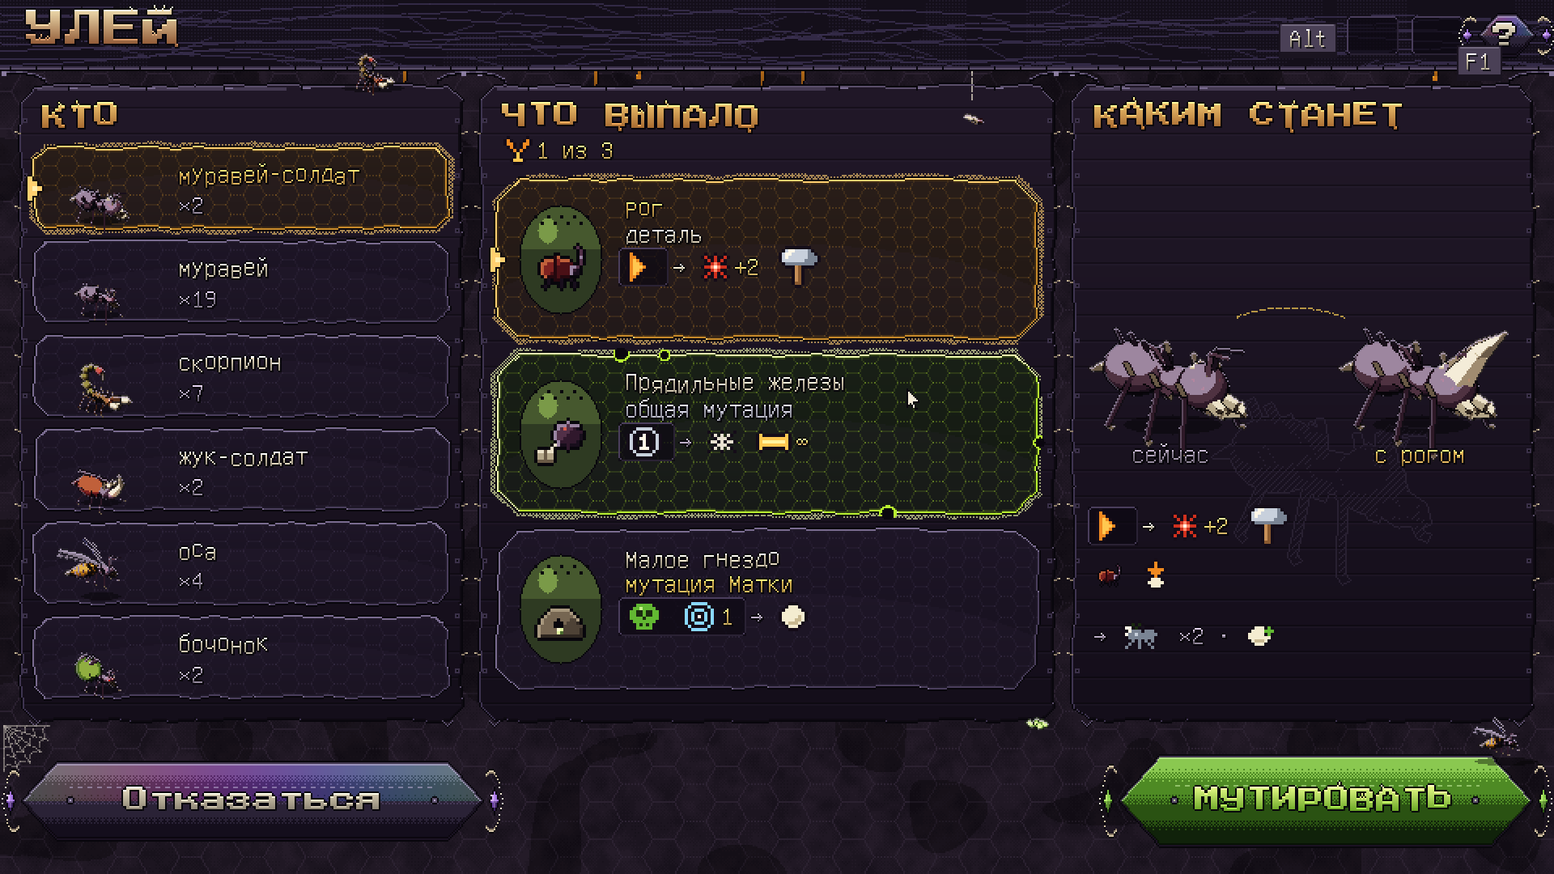
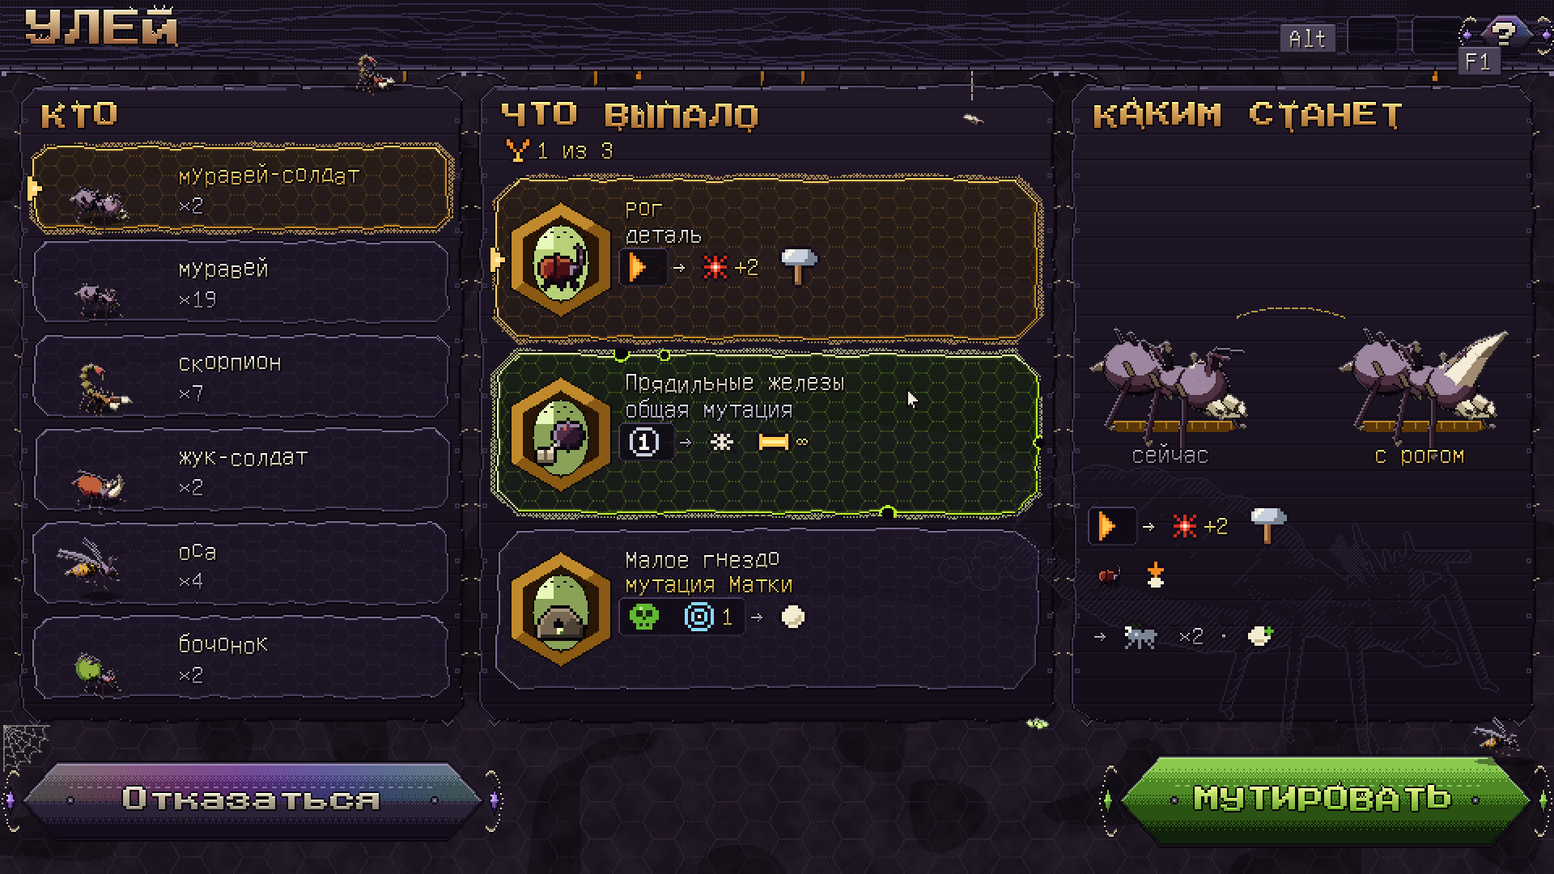
Рой: улей и эволюция у каждого лидера
Свои формы в рое, мутация из пула лидера среди находок, находки выпадают
из вместилища лидера (яйцо в соте, пузырь мысли, пасть, дождевик), особи
на его подстилке, лидер на гравюре, метки пси и чужих черт на формах.

Claude-Session: https://claude.ai/code/session_01Bh6a99SKMjjKSinDnrtssC

diff --git a/tools/sprites/swarm_hud.py b/tools/sprites/swarm_hud.py
@@ -396,8 +396,144 @@ def heading(sc, text, x, y, col=(240, 196, 110), seed=0):
 
 
 # ---------------------------------------------------------------- the camp: the swarm picks a mutation itself
-def camp(variant=None):
+CAMP_BY = {   # the camp by leader: who is in the swarm (traits, soldier, name, count[, chimera]), the leader's offer
+    "Матка": (None, ("m_nest", "Малое гнездо", "мутация Матки", "nest")),
+    "Разум улья": ([((), True, "муравей-солдат", 2), ((), False, "муравей", 12), (("firefly",), False, "светлячок", 3),
+                    (("scythes",), False, "богомол", 2), (("wings",), False, "оса", 2)],
+                   ("m_psi_gland", "Пси-железа", "мутация Разума", "psi_gland")),
+    "Пожиратель": ([((), True, "муравей-солдат", 3), ((), False, "муравей", 17), (("jumper",), False, "кузнечик", 3),
+                    (("horn",), True, "жук-солдат", 1), (("stinger",), False, "скорпион", 2)],
+                   ("m_table", "За столом", "мутация Пожирателя", "table")),
+    "Чума": ([((), False, "муравей", 18), (("stinger",), False, "скорпион", 3), (("acid",), False, "бочонок", 3),
+              (("acid",), False, "бочонок с рукой", 1, "hand"), (("wings",), False, "оса с червём", 1, "worm")],
+             ("m_parasitoid", "Паразитоид", "мутация Чумы", "parasitoid")),
+}
+EVO_BY = {   # the evolution by leader: the forms in the swarm (form, name, count, evolutions taken[, chimera, mark]),
+             # which is open, the biomass, a line by the purse
+    "Матка": (None, None, 39, None),
+    "Разум улья": ([(None, "муравей", 12, ("phalanx",), None, "m_psi_gland"), ("firefly", "светлячок", 3, ()),
+                    ("scythes", "богомол", 2, ("saws",), None, "m_psi_dread"), ("wings", "оса", 2, ("syringe",))],
+                   1, 39, None),
+    "Пожиратель": ([(None, "муравей", 17, ("formic",)), ("jumper", "кузнечик", 3, ()), ("horn", "жук", 1, ("forked",)),
+                    ("stinger", "скорпион", 2, ("vise",))], 1, 62, "из пасти: +12"),
+    "Чума": ([(None, "муравей", 18, ()), ("acid", "бочонок", 4, ("scent",), "hand", "hand"),
+              ("wings", "оса", 2, ("tough",), "worm", "worm"), ("firefly", "светлячок", 1, ("hood",)),
+              ("stinger", "скорпион", 3, ())], 1, 39, None),
+}
+
+
+def vessel(sc, name, ex, ey, hot=False):
+    """What an offer in the camp hatched from, each leader's own: the Queen's egg in its wax cell, the Mind's thought
+    bubble, the Devourer's maw, the Plague's torn puffball. About 56×70, centred on (ex, ey)."""
+    X, Y = sc.xx - ex, sc.yy - ey
+    if name == "Матка":
+        hx = lambda r: hexmask(sc, ex, ey, r)
+        sc.rgb[hx(36)] = UI.OUTL
+        ring = hx(35) & ~hx(27)
+        sc.rgb[ring] = hexc("#8a5a14")
+        sc.rgb[ring & (X + Y * 1.2 < -6)] = hexc("#c08a2c")
+        sc.rgb[hx(27)] = hexc("#2a1606")
+        egg = (X / 18.0) ** 2 + ((Y - 2) / 24.0) ** 2 <= 1
+        sc.rgb[egg] = hexc("#b8d07a" if hot else "#8aa258")
+        sc.rgb[egg & (X < -4) & (Y < -6)] = hexc("#e8f8b8")
+        eo, _, _ = UI.edges(egg)
+        sc.rgb[eo] = UI.OUTL
+        for t in range(8):                                                # the crack it came out of
+            sc.rgb[int(ey - 16 + (2 if t % 2 else -1)), int(ex - 14 + t * 4):int(ex - 12 + t * 4)] = UI.OUTL
+    elif name == "Разум улья":
+        import swarm_abilities as SA
+        d = np.hypot(X, Y)
+        if hot:
+            sc.glow(ex, ey, 44, hexc("#b070ff"), 0.3)
+        inner = d <= 31
+        t = np.clip(d / 32.0, 0, 1)[..., None]
+        sc.rgb[inner] = (hexc("#3a1866") * (1 - t) + hexc("#0e0618") * t)[inner]
+        SA.ring(sc, ex, ey + 8, 20, 9, SA.PHERO, 0.4)
+        sc.rgb[(d > 31) & (d <= 33)] = hexc("#8a5ad0")
+        sc.rgb[(d > 32) & (d <= 33)] = hexc("#d0b0ff")
+        sc.rgb[(d > 26) & (d <= 28) & (X < -8) & (Y < -8)] = hexc("#e8d8ff")
+    elif name == "Пожиратель":
+        d = np.hypot(X, Y / 1.08)
+        a = np.arctan2(Y, X)
+        if hot:
+            sc.glow(ex, ey, 44, hexc("#ff4a30"), 0.25)
+        sc.rgb[d <= 35 + np.sin(a * 7)] = UI.OUTL
+        flesh = d <= 33 + np.sin(a * 7)
+        sc.rgb[flesh] = hexc("#7a1a14")
+        sc.rgb[flesh & (X + Y < -10)] = hexc("#b03a2a")
+        inner = d <= 25
+        sc.rgb[inner] = hexc("#1a0404")
+        for j in range(12):                                               # the teeth
+            a0 = j * 2 * np.pi / 12 + 0.2
+            for k in range(7):
+                q = k / 6
+                r = 27 - q * 7
+                w = 2.5 * (1 - q)
+                for e in np.linspace(-w, w, 4):
+                    xx = int(ex + np.cos(a0) * r - np.sin(a0) * e)
+                    yy = int(ey + (np.sin(a0) * r + np.cos(a0) * e) * 1.08)
+                    sc.rgb[yy, xx] = hexc("#ece2c8") if e < 0 else hexc("#b8a888")
+    else:
+        if hot:
+            sc.glow(ex, ey, 44, hexc("#9ae030"), 0.25)
+        outer = (X / 30.0) ** 2 + (Y / 36.0) ** 2 <= 1
+        sc.rgb[outer] = UI.OUTL
+        sac = (X / 28.0) ** 2 + (Y / 34.0) ** 2 <= 1
+        sc.rgb[sac] = hexc("#8e8462")
+        sc.rgb[sac & (X + Y < -8)] = hexc("#bcb28c")
+        sc.rgb[sac & (X + Y > 16)] = hexc("#5e563e")
+        a = np.arctan2(Y, X)
+        tri = np.abs(((a * 9 / (2 * np.pi)) % 1.0) - 0.5) * 2
+        hole = (X / 22.0) ** 2 + ((Y - 4) / 26.0) ** 2 <= (1 + 0.16 * tri) ** 2
+        sc.rgb[hole & sac] = UI.OUTL
+        inner = (X / 20.0) ** 2 + ((Y - 4) / 24.0) ** 2 <= (1 + 0.16 * tri) ** 2
+        t = np.clip((Y + 20) / 50.0, 0, 1)[..., None]
+        sc.rgb[inner] = (hexc("#0e1608") * (1 - t) + hexc("#4a7a1a" if hot else "#2a4010") * t)[inner]
+        rnd = np.random.RandomState(int(ex + ey))
+        for _ in range(8):
+            wx, wy = ex + rnd.randint(-26, 26), ey + rnd.randint(-32, 32)
+            if sac[wy - ey + ey, wx] and not inner[wy, wx]:
+                sc.rgb[wy, wx] = hexc("#6a8a2a")
+    sc.occ[(np.abs(X) < 38) & (np.abs(Y) < 40)] = True
+
+
+def bed(sc, name, cx, by, w=40):
+    """What a creature stands on in a leader's camp and evolution: the Queen's comb, a psi ring, gnawed bones,
+    a patch of fungus."""
+    X, Y = sc.xx - cx, sc.yy - by
+    if name == "Матка":
+        m = (np.abs(X) <= w) & (Y >= -2) & (Y <= 4) & (np.abs(X) + Y * 3 <= w + 6)
+        sc.rgb[m] = hexc("#5a3608")
+        for x in range(-w + 4, w - 2, 8):
+            sc.rgb[by - 1:by + 3, cx + x] = hexc("#a0701e")
+        sc.rgb[by - 2, cx - w:cx + w] = hexc("#c08a2c")
+    elif name == "Разум улья":
+        import swarm_abilities as SA
+        SA.ring(sc, cx, by, w, w * 0.22, SA.PHERO, 0.7)
+        SA.ring(sc, cx, by, w * 0.6, w * 0.13, SA.PHERO, 0.4)
+    elif name == "Пожиратель":
+        for (dx, dy, ang) in ((-w * 0.7, 2, 0.2), (w * 0.5, 3, -0.3), (-w * 0.1, 4, 0.05)):
+            bx, by_ = cx + dx, by + dy
+            for k in range(-7, 8):
+                sc.rgb[int(by_ + np.sin(ang) * k), int(bx + np.cos(ang) * k)] = hexc("#d8ccb0")
+            for e in (-8, 8):
+                xx, yy = int(bx + np.cos(ang) * e), int(by_ + np.sin(ang) * e)
+                sc.rgb[yy - 1:yy + 2, xx - 1:xx + 2] = hexc("#ece2c8")
+    else:
+        for (dx, r) in ((-w * 0.8, 6), (-w * 0.55, 4), (w * 0.6, 7), (w * 0.85, 4)):
+            fungus(sc, int(cx + dx), int(by + 2), r)
+
+
+def dress_screen(sc, name, x=560):
+    """A swarm screen made the leader's: its signs on the wing, the edge in its colour."""
+    beam_marks(sc, name, x=x)
+    _rim(sc, LEADER_COL[name], y0=46)
+
+
+def camp(variant=None, leader_name="Матка", ret=False):
     import swarm_screens as SS
+    who_, own = CAMP_BY[leader_name]
+    who_ = who_ or SS.CAMP_WHO
     sc = frame_screen(73)
     UI.wing(sc, 0, 0, WW, 44)
     UI.drips(sc, 60, 900, 44, "#b06818", n=6, seed=5)
@@ -406,10 +542,13 @@ def camp(variant=None):
     # who
     UI.plate(sc, 12, 52, 286, 446, antennae=True)
     heading(sc, "КТО", 26, 64, seed=1)
-    for i, (traits, soldier, name, n) in enumerate(SS.CAMP_WHO):
+    for i, row in enumerate(who_):
+        traits, soldier, name, n = row[:4]
+        chim = row[4] if len(row) > 4 else None
         y0 = 90 + i * 58
         UI.cell(sc, 20, y0, 278, y0 + 52, "hi" if i == 0 else "normal")
-        put(sc, W.build(traits, 0.03, "idle", soldier, k=1.1 if soldier else 1.4, genes=W.genes_for(70 + i)), 62, y0 + 46, 12)
+        put(sc, W.build(traits, 0.03, "idle", soldier, k=1.1 if soldier else 1.4, chimera=chim, genes=W.genes_for(70 + i)),
+            62, y0 + 46, 12)
         letters(sc, name, 110, y0 + 9, "text", 16, col=GOLD if i == 0 else INK, jitter=1, seed=i)
         letters(sc, f"×{n}", 110, y0 + 28, "text", 16, col=MUTED)
     # what fell out: three random offers, one of them or nothing
@@ -418,33 +557,25 @@ def camp(variant=None):
     fx_line(sc, 310, 84, "{выбор:1 из 3}", dim=True)
     offers = [("horn", "Рог", "деталь", ["{начало} → {урон:+2} {дроб}"], (236, 224, 196)),
               ("m_spinner", "Прядильные железы", "общая мутация", FX["spinner"][:2], (206, 206, 222)),
-              ("m_nest", "Малое гнездо", "мутация Матки", FX["nest"], (240, 200, 90))]
+              (own[0], own[1], own[2], FX[own[3]], EPITHET[leader_name][1])]
     X, Y = sc.xx, sc.yy
     for k_, (key, name, kind, what, kcol) in enumerate(offers):
         y0 = 110 + k_ * 108
         UI.cell(sc, 306, y0, 642, y0 + 100, "hi" if k_ == 0 else ("hover" if k_ == 1 else "normal"))
-        ex, ey = 346, y0 + 50                                   # each offer hatched from its own egg
-        egg = ((X - ex) / 26) ** 2 + ((Y - ey) / 34) ** 2 <= 1
-        sc.rgb[egg] = hexc("#2e3a22")
-        sc.rgb[egg & (Y < ey - 6)] = hexc("#46582e")
-        sc.rgb[egg & (((X - ex + 8) / 6) ** 2 + ((Y - ey + 18) / 8) ** 2 <= 1)] = hexc("#7a9a48")
-        eo, _, _ = UI.edges(egg)
-        sc.rgb[eo] = UI.OUTL
-        for t in range(9):                                     # the crack it came out of
-            cx_, cy_ = ex - 16 + t * 4, ey - 26 + (3 if t % 2 else -1)
-            sc.rgb[int(cy_):int(cy_) + 2, int(cx_):int(cx_) + 2] = UI.OUTL
-        sc.occ[egg] = True
-        sc.light[egg] = 0
+        ex, ey = 346, y0 + 50                                   # each offer hatched from the leader's own vessel
+        vessel(sc, leader_name, ex, ey, hot=k_ == 0)
         icon(sc, key, ex - 16, ey - 12, 2)
         letters(sc, name, 386, y0 + 10, "text", 16, col=GOLD if k_ == 0 else INK, jitter=1, seed=k_)
         letters(sc, kind, 386, y0 + 26, "text", 16, col=kcol)
         fx_rows(sc, 386, y0 + 46, 244, what[:1], dim=bool(k_))
     # what it becomes
     UI.plate(sc, 662, 52, 948, 446, antennae=True)
-    UI.engrave(sc, bug((), "idle", 4.2, 70, soldier=True), 820, 330, col="#2a2234", k=0.9)
+    UI.engrave(sc, leader(leader_name, "idle", 2.4 if leader_name == "Матка" else 3.2), 806, 420, col="#2a2234", k=0.9)
     heading(sc, "КАКИМ СТАНЕТ", 676, 64, seed=3)
-    put(sc, W.build((), 0.03, "idle", True, k=3.0, genes=W.genes_for(70)), 724, 262, 30)
-    put(sc, W.build(("ant", "horn"), 0.03, "idle", True, k=3.0, genes=W.genes_for(70)), 878, 262, 30)
+    for bx in (724, 878):
+        bed(sc, leader_name, bx, 262, 40)
+    put(sc, W.build((), 0.03, "idle", True, k=3.0, genes=W.genes_for(70)), 724, 262, 0)
+    put(sc, W.build(("ant", "horn"), 0.03, "idle", True, k=3.0, genes=W.genes_for(70)), 878, 262, 0)
     letters(sc, "сейчас", 724, 272, "text", 16, col=MUTED, align="center")
     letters(sc, "с рогом", 878, 272, "text", 16, col=GOLD, align="center")
     UI.silk(sc, (764, 196), (830, 196), sag=-6, col="#e8c050")
@@ -465,10 +596,14 @@ def camp(variant=None):
     UI.creature(sc, bug(("wings",), "idle", 1.0, 72), 930, 470)
     UI.creature(sc, clutch(0.9), 640, 448)
     UI.cobweb(sc, 2, 448, 28, quad=(1, 1))
-    name = "swarm_camp.png"
+    if leader_name != "Матка":
+        dress_screen(sc, leader_name)
+    name = "swarm_camp.png" if leader_name == "Матка" else f"swarm_camp_{LEADER_EN[leader_name]}.png"
     if variant == "confirm":                     # «Отказаться» loses all three: asked first
-        confirm(sc, "ОТКАЗАТЬСЯ?", ["{@horn} {@m_spinner} {@m_nest} → ✕"], "Отказаться")
+        confirm(sc, "ОТКАЗАТЬСЯ?", ["{@horn} {@m_spinner} {@" + own[0] + "} → ✕"], "Отказаться")
         name = "swarm_confirm.png"
+    if ret:
+        return sc
     img = sc.image(S)
     UI.WOBBLE[0] = 0.0
     img.save(out(name))
@@ -476,34 +611,48 @@ def camp(variant=None):
 
 
 # ---------------------------------------------------------------- the evolution of a form
-def evolution(variant=None):
+def evolution(variant=None, leader_name="Матка", ret=False):
     import swarm_screens as SS
     import swarm_evo as EV
+    forms_, chosen, bio, purse_line = EVO_BY[leader_name]
+    forms_ = forms_ or SS.FORMS_IN_SWARM
+    chosen = SS.CHOSEN if chosen is None else chosen
     sc = frame_screen(71)
     ALT[0] = variant == "alt"
-    bio = 20 if variant == "poor" else 39
+    bio = 20 if variant == "poor" else bio
     UI.wing(sc, 0, 0, WW, 44)
     UI.drips(sc, 60, 900, 44, "#b06818", n=6, seed=8)
     title(sc, "ЭВОЛЮЦИЯ", seed=23)
     help_button(sc, alt=ALT[0])
     icon(sc, "biomass", 700, 8, 2)
     letters(sc, str(bio), 740, 10, "title", 16, col=(170, 240, 120), col2=(70, 150, 50), jitter=1)
+    if purse_line:                                       # the leader's own rule, by the purse
+        letters(sc, purse_line, 690, 12, "text", 16, col=EPITHET[leader_name][1], align="right")
     UI.plate(sc, 12, 52, 300, 446, antennae=True)
     heading(sc, "ФОРМЫ В РОЕ", 26, 64, seed=4)
-    for i, (form, name, n, taken) in enumerate(SS.FORMS_IN_SWARM):
+    for i, row in enumerate(forms_):
+        form, name, n, taken = row[:4]
+        chim = row[4] if len(row) > 4 else None
+        mark = row[5] if len(row) > 5 else None
         y0 = 90 + i * 58
-        UI.cell(sc, 20, y0, 292, y0 + 52, "hi" if i == SS.CHOSEN else "normal")
-        put(sc, W.build(() if form is None else (form,), 0.0, "idle", False, k=1.35, genes=W.genes_for(60 + i), evo=taken), 62, y0 + 46, 12)
-        letters(sc, name, 108, y0 + 8, "text", 16, col=GOLD if i == SS.CHOSEN else INK, jitter=1, seed=i)
+        UI.cell(sc, 20, y0, 292, y0 + 52, "hi" if i == chosen else "normal")
+        put(sc, W.build(() if form is None else (form,), 0.0, "idle", False, k=1.35, chimera=chim, genes=W.genes_for(60 + i),
+                        evo=taken), 62, y0 + 46, 12)
+        if mark:                                         # the leader's mark on the form: psi, an alien trait
+            icon(sc, mark, 24, y0 + 4)
+        letters(sc, name, 108, y0 + 8, "text", 16, col=GOLD if i == chosen else INK, jitter=1, seed=i)
         letters(sc, f"×{n}", 110, y0 + 28, "text", 16, col=MUTED)
         for k_ in range(3):                                  # three slots: an evolution's icon, or empty
             if k_ < len(taken):
                 icon(sc, "evo_" + taken[k_], 214 + k_ * 22, y0 + 26)
             else:
                 cond_plate(sc, 214 + k_ * 22, y0 + 26, 230 + k_ * 22, y0 + 42)
-    form, name, n, taken = SS.FORMS_IN_SWARM[SS.CHOSEN]
+    form, name, n, taken = forms_[chosen][:4]
     UI.plate(sc, 310, 52, 948, 446, antennae=True)
-    UI.engrave(sc, bug((form,), "idle", 5.0, 3), 640, 470, col="#2a2234", k=0.9)
+    if leader_name == "Матка":
+        UI.engrave(sc, bug((form,), "idle", 5.0, 3), 640, 470, col="#2a2234", k=0.9)
+    else:
+        UI.engrave(sc, leader(leader_name, "idle", 4.0), 640, 470, col="#2a2234", k=0.9)
     heading(sc, f"{name.upper()} ×{n}", 326, 64, seed=5)
     # the price of each next evolution: the paid one struck out, the one now marked, the next one dim
     cx_ = 326 + glyph(sc, "биомасса", 326, 82, 2) + 8
@@ -531,7 +680,10 @@ def evolution(variant=None):
         else:
             fx_line(sc, x0 + 50, 136, f"{{биомасса:{nxt}}}")
         fx_rows(sc, x0 + 12, 170, 180, EV.EVO_FX[key], lh=28)
-        put(sc, W.build((form,), -0.08, "idle", False, k=3.2, genes=W.genes_for(3), evo=(key,)), x0 + 104, 380, 34)
+        if leader_name != "Матка":
+            bed(sc, leader_name, x0 + 104, 380, 50)
+        put(sc, W.build((form,), -0.08, "idle", False, k=3.2, genes=W.genes_for(3), evo=(key,)), x0 + 104, 380,
+            34 if leader_name == "Матка" else 0)
     UI.button(sc, 12, 470, 300, 520, "chitin")
     letters(sc, "Назад", 156, 486, "title", 16, col=INK, align="center")
     key_on(sc, 300, 470, "Esc")
@@ -544,8 +696,14 @@ def evolution(variant=None):
     UI.silk(sc, (700, 44), (700, 62), sag=0)
     UI.creature(sc, bug(("ant",), "attack", 0.85, 75, rare="spinner"), 706, 76, shadow=False)
     UI.cobweb(sc, 958, 448, 30, quad=(-1, 1))
+    if leader_name != "Матка":
+        dress_screen(sc, leader_name, x=480)
     name = "swarm_alt_words.png" if ALT[0] else ("swarm_tip_disabled.png" if variant == "poor" else "swarm_evolution_screen.png")
+    if leader_name != "Матка":
+        name = f"swarm_evolution_{LEADER_EN[leader_name]}.png"
     ALT[0] = False
+    if ret:
+        return sc
     img = sc.image(S)
     UI.WOBBLE[0] = 0.0
     img.save(out(name))
@@ -2585,7 +2743,9 @@ def hints():
     camp("confirm")
 
 
-SCREENS = {"brood": brood, "brood_leaders": lambda: [brood("plain", n) for n in ("Разум улья", "Пожиратель", "Чума")], "camp": camp, "evolution": evolution, "finds": finds, "pools": pools,
+SCREENS = {"brood": brood, "brood_leaders": lambda: [brood("plain", n) for n in ("Разум улья", "Пожиратель", "Чума")], "camp": camp, "evolution": evolution,
+           "camp_leaders": lambda: [camp(None, n) for n in ("Разум улья", "Пожиратель", "Чума")],
+           "evolution_leaders": lambda: [evolution(None, n) for n in ("Разум улья", "Пожиратель", "Чума")], "finds": finds, "pools": pools,
            "flocks": flocks, "battle": battle_hud, "aftermath": aftermath, "leader": leaders_pick, "development": lambda: [development(n) for n in ("Матка", "Разум улья", "Пожиратель", "Чума")],
            "card": cards, "field": leaders_field, "mutation": mutation_card, "hover": button_gif,
            "glossary": glossary_screen, "hints": hints, "roles": roles}

diff --git a/docs/ART.md b/docs/ART.md
@@ -1123,12 +1123,34 @@ GNU Unifont 16 px (18.0.01, OFL 1.1) — лежит в `tools/sprites/fonts` с 
 ![Кнопки и ячейки: роли цветов](images/swarm_ui_roles.png)
 
 Экраны роя между боями и перед боем: выбор эволюции формы (карточки трёх эволюций с иконкой,
-ценой и видом на спрайте), Улей — так у роя называется лагерь (кто изменится, три случайных варианта на выбор — каждый в своём яйце, — как будет выглядеть).
+ценой и видом на спрайте), Улей — так у роя называется лагерь (кто изменится, три случайных варианта на выбор — каждый в своём вместилище, — как будет выглядеть).
 Экрана расстановки нет: армии встают сами (CONCEPT.md, «Строй сам»).
 
 ![Экран эволюции](images/swarm_evolution_screen.png)
 
 ![Улей](images/swarm_camp.png)
+
+Улей и эволюция у каждого лидера свои (`swarm_hud.py camp_leaders`, `evolution_leaders`), как у
+Литейщика у каждого лидера своя мастерская. В рое свои формы: у Разума светлячки и богомолы, у
+Пожирателя кузнечики, у Чумы бочонки и химеры с чужими чертами. Среди находок всегда мутация из пула
+этого лидера: Малое гнездо, Пси-железа, За столом или Паразитоид. Каждая находка выпадает из
+вместилища своего лидера: у Матки это яйцо в восковой ячейке, у Разума пузырь мысли, у Пожирателя
+пасть, у Чумы разорванный дождевик. Особи стоят на своей подстилке: соты, круги пси, кости или
+грибы. За плитой выгравирован сам лидер, на крыле его знаки, край экрана его цвета. Метки лидера
+видны и на формах в эволюции: пси у Разума, чужая черта у Чумы. У Пожирателя рядом с кошельком
+написано «из пасти: +12», биомассы у него больше.
+
+![Улей Разума](images/swarm_camp_razum.png)
+
+![Улей Пожирателя](images/swarm_camp_pozh.png)
+
+![Улей Чумы](images/swarm_camp_kuk.png)
+
+![Эволюция у Разума](images/swarm_evolution_razum.png)
+
+![Эволюция у Пожирателя](images/swarm_evolution_pozh.png)
+
+![Эволюция у Чумы](images/swarm_evolution_kuk.png)
 
 Стаи у каждого лидера свои (`swarm_hud.py flocks`): у Матки в клетке шесть особей вместо четырёх,
 у Разума вся стая сходится нитями мысли на одну цель, у Пожирателя стая бежит за вожаком и оставляет
